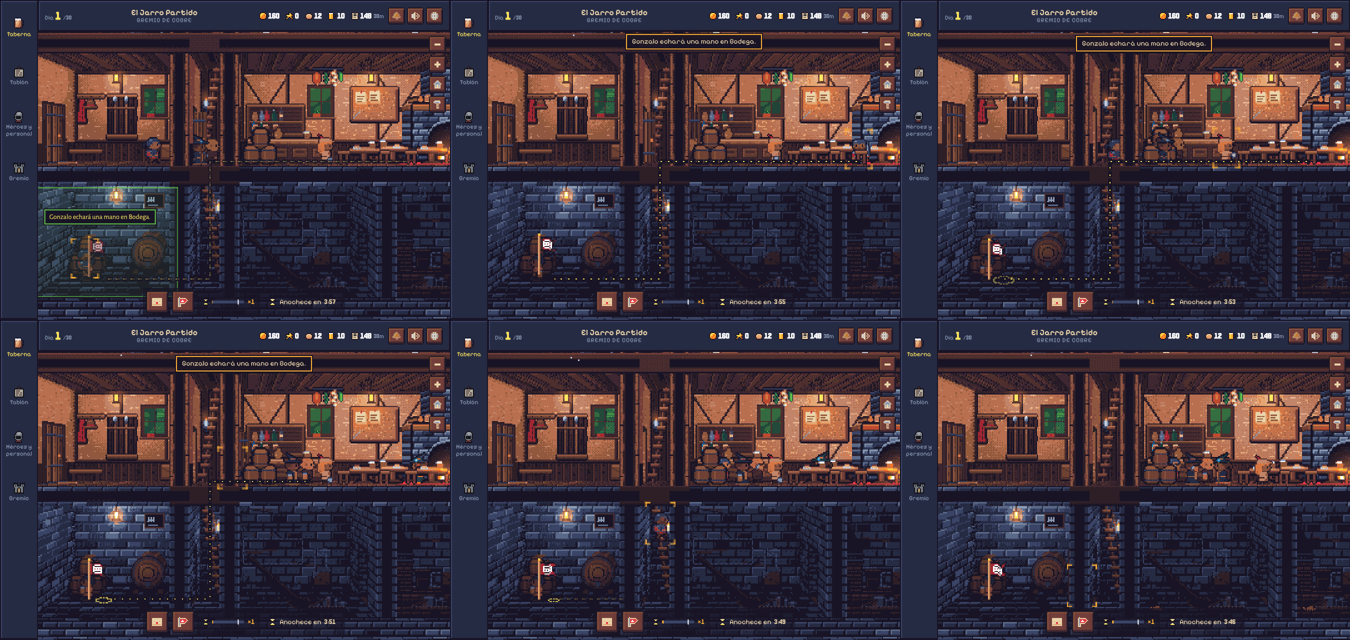
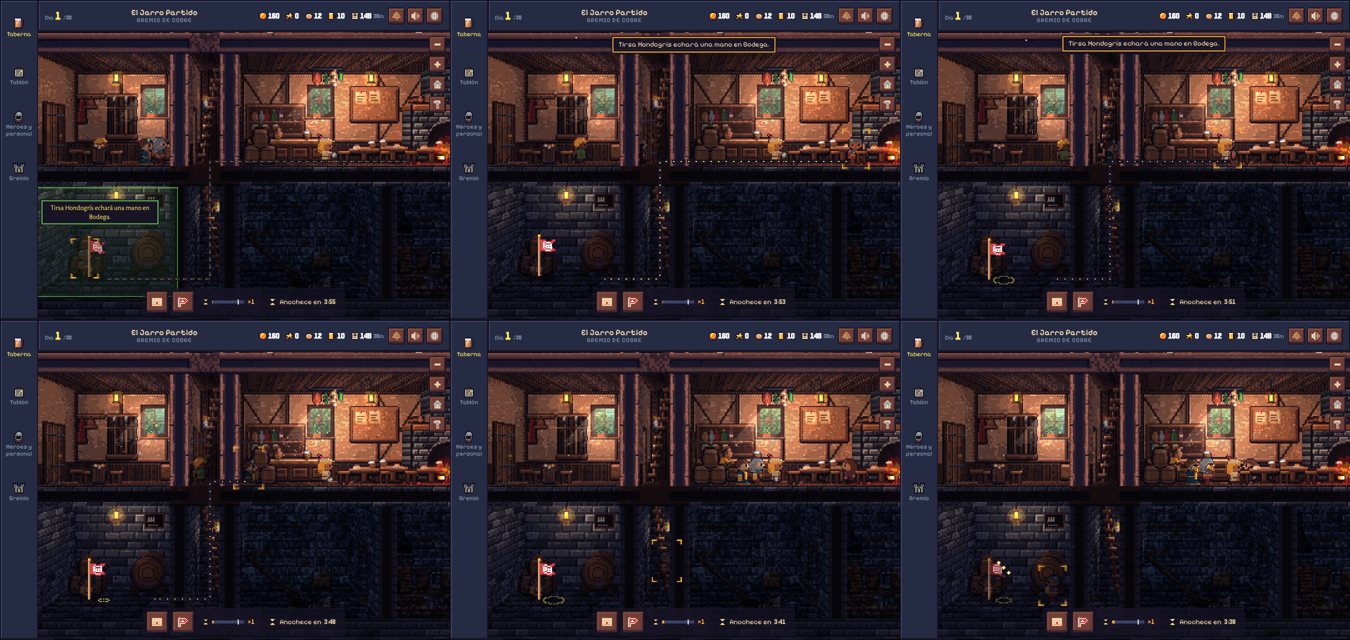
El camino al banderín sale del héroe (lo que le queda por andar) y tocar el banderín lo vuelve a enseñar
Claude-Session: https://claude.ai/code/session_011Wau2CXHz7Y1As4puBkNta

diff --git a/src/world/rooms/RoomScene.ts b/src/world/rooms/RoomScene.ts
@@ -67,7 +67,7 @@ import { BLIND, CANDLE, takeWallActs, type ActId, type PoiKind, type Round } fro
 import { FLIGHT_Z, flightArt, goesRight } from './stairs';
 import { dress } from './salas/tintes';
 import { Crowd, WALK_Z, type Hit, type Poi, type Talk } from './crowd';
-import { drawGoal, goalIcon, type GoalIcon } from './goalMark';
+import { drawGoal, goalBox, goalIcon, type GoalIcon } from './goalMark';
 import { clothOf } from '../../art/heroes/hero';
 import { LAWN_D, tuftAllowed, yardBushes, yardTrees } from './patio';
 import { bushCnc, oakCnc, pineCnc } from './arboles';
@@ -637,7 +637,7 @@ export class RoomScene {
    * Los caminos de quien se acaba de mandar a un sitio: de donde estaba hasta el banderín, por
    * puertas y escaleras; se borran solos en unos segundos (ver `trails`).
    */
-  private paths: { pts: Place[]; t0: number }[] = [];
+  private paths: { id: string; t0: number }[] = [];
   /** Modo obras: la sala elegida, que se puede coger para moverla, y la que se lleva con el dedo. */
   private grabbable: string | null = null;
   private roomDrag: { id: string; x: number; y: number; moved: boolean; rect: Rect } | null = null;
@@ -4812,7 +4812,10 @@ export class RoomScene {
     const live = this.liveRaid;
     if (live) {
       const id = this.heroAt(cssX, cssY);
-      if (!id) return;
+      if (!id) {
+        this.tapGoal(cssX, cssY);
+        return;
+      }
       if (isBandit(id)) live.aim(id);
       else if (live.tap(id)) this.cb.onSound?.('click', 0.8);
       return;
@@ -4823,6 +4826,8 @@ export class RoomScene {
       this.cb.onHero?.(who, { x: cssX, y: cssY, wx: p?.x ?? w.x, wy: p?.y ?? w.y });
       return;
     }
+    // Un banderín: su camino otra vez (antes que la sala que hay detrás).
+    if (this.tapGoal(cssX, cssY)) return;
     const pet = this.petAt(cssX, cssY);
     if (pet) {
       this.pat(pet);
@@ -4898,8 +4903,7 @@ export class RoomScene {
           // A plantar cara: el banderín con la espada y el camino por el que va corriendo.
           const wx = this.camera.toWorld(d.x, d.y).x;
           const x = Math.max(r.rect.x + 12, Math.min(r.rect.x + r.rect.w - 12, wx));
-          const way = d.from ? this.wayTo(d.from, { x, floor: r.room.floor }) : null;
-          if (way) this.paths.push({ pts: way, t0: this.t });
+          this.showPath(d.id);
           this.goals.set(d.id, {
             room: r.room.id,
             x,
@@ -4917,8 +4921,7 @@ export class RoomScene {
       const w = this.camera.toWorld(d.x, d.y);
       const x = Math.max(r.rect.x + 12, Math.min(r.rect.x + r.rect.w - 12, w.x));
       this.crowd.drop(d.id, { x, floor: r.room.floor });
-      const way = d.from ? this.wayTo(d.from, { x, floor: r.room.floor }) : null;
-      if (way) this.paths.push({ pts: way, t0: this.t });
+      this.showPath(d.id);
       this.goals.set(d.id, {
         room: r.room.id,
         x,
@@ -5160,7 +5163,11 @@ export class RoomScene {
             key,
             pts: d.from ? this.wayTo(d.from, { x: gx, floor: r.room.floor }) : null,
           };
-        if (d.trail.pts) this.trace(d.trail.pts, 0.5, 0);
+        if (d.trail.pts)
+          this.trace(
+            d.trail.pts.map((q) => ({ x: q.x, y: floorY(q.floor) })),
+            0.5,
+          );
         this.goalAt(d.id, gx, r.room.floor, this.goalIconFor(d.id, r.room), 0, 0.55, true);
       }
     }
@@ -5175,31 +5182,58 @@ export class RoomScene {
     return way ? [{ x: from.x, floor: from.floor }, ...way] : null;
   }
 
+  /** Enseña unos segundos el camino de alguien que va a su banderín (o lo vuelve a empezar). */
+  private showPath(id: string): void {
+    this.paths = this.paths.filter((p) => p.id !== id);
+    this.paths.push({ id, t0: this.t });
+  }
+
+  /** El banderín (de quién) que hay bajo un punto de la pantalla, si hay. */
+  private goalHit(cssX: number, cssY: number): string | null {
+    const { camera } = this;
+    const v: View = { px: camera.px, py: camera.py, vw: camera.vw, vh: camera.vh };
+    const x = cssX / camera.zoom;
+    const y = cssY / camera.zoom;
+    for (const [id, g] of this.goals) {
+      if (g.out !== undefined) continue;
+      const p = project(v, g.x, floorY(g.floor), WALK_Z);
+      const b = goalBox(p.x, p.y);
+      if (x >= b.x && x < b.x + b.w && y >= b.y && y < b.y + b.h) return id;
+    }
+    return null;
+  }
+
+  /** Tocar un banderín: vuelve a enseñar el camino de quien va hacia él. */
+  private tapGoal(cssX: number, cssY: number): boolean {
+    const id = this.goalHit(cssX, cssY);
+    if (!id) return false;
+    this.showPath(id);
+    this.cb.onSound?.('click', 0.5);
+    return true;
+  }
+
   /**
-   * Los caminos de quien se ha mandado a un sitio: un rato enteros y luego se van borrando desde
-   * donde salió hacia el banderín (como si se lo comiera quien va andando) y apagando.
+   * Los caminos de quien va a su banderín: lo que le queda por andar, desde sus pies (se acorta
+   * según avanza), un rato y luego se apaga. Si ha llegado o ya no va, se quita.
    */
   private trails(): void {
-    this.paths = this.paths.filter((p) => this.t - p.t0 < TRAIL_LIFE);
+    this.paths = this.paths.filter((p) => this.t - p.t0 < TRAIL_LIFE && this.goals.has(p.id));
     for (const p of this.paths) {
+      const pts = this.crowd.pathOf(p.id);
+      if (!pts) continue;
       const k = (this.t - p.t0) / TRAIL_LIFE;
-      const cut = k < 0.45 ? 0 : (k - 0.45) / 0.55;
-      this.trace(p.pts, k < 0.75 ? 1 : 1 - (k - 0.75) / 0.25, cut);
+      this.trace(pts, k < 0.7 ? 1 : 1 - (k - 0.7) / 0.3);
     }
   }
 
   /**
-   * Un camino punteado por el suelo (al paso de la gente), con los puntos que avanzan hacia el
-   * final; `cut` (0–1): lo que ya se ha borrado desde el principio.
+   * Un camino punteado por el suelo (al paso de la gente; pies: x e y en el plano de corte), con
+   * los puntos que avanzan hacia el final.
    */
-  private trace(pts: Place[], alpha: number, cut: number): void {
+  private trace(pts: { x: number; y: number }[], alpha: number): void {
     const { topCtx: ctx, camera } = this;
     const v: View = { px: camera.px, py: camera.py, vw: camera.vw, vh: camera.vh };
-    const sp = pts.map((q) => project(v, q.x, floorY(q.floor), WALK_Z));
-    let total = 0;
-    for (let k = 1; k < sp.length; k++)
-      total += Math.hypot(sp[k]!.x - sp[k - 1]!.x, sp[k]!.y - sp[k - 1]!.y);
-    const from = total * cut;
+    const sp = pts.map((q) => project(v, q.x, q.y, WALK_Z));
     const shift = Math.floor(this.t * 14) % 6;
     ctx.save();
     ctx.globalAlpha = Math.max(0, alpha);
@@ -5210,7 +5244,7 @@ export class RoomScene {
       const len = Math.hypot(b.x - a.x, b.y - a.y);
       for (let d = 0; d < len; d++) {
         const at = walked + d;
-        if (at < from || (at - shift + 6) % 6 >= 3) continue;
+        if ((at - shift + 6) % 6 >= 3) continue;
         const x = Math.round(a.x + ((b.x - a.x) * d) / len);
         const y = Math.round(a.y + ((b.y - a.y) * d) / len) - 1;
         ctx.fillStyle = P.black;

diff --git a/src/world/rooms/crowd.ts b/src/world/rooms/crowd.ts
@@ -1802,6 +1802,16 @@ export class Crowd {
     return { x: a.x, floor: a.floor, y: a.y, moving: a.path.length > 0, down: a.pose === 'down' };
   }
 
+  /**
+   * Lo que le queda por andar a alguien: desde sus pies (donde está ahora, también a media
+   * escalera) por cada punto de su camino. Null si no se le ve o ya no va a ningún sitio.
+   */
+  pathOf(id: string): { x: number; y: number }[] | null {
+    const a = this.actors.get(id);
+    if (!a || a.gone || a.held || !a.path.length) return null;
+    return [{ x: a.x, y: a.y }, ...a.path.map((q) => ({ x: q.x, y: floorY(q.floor) }))];
+  }
+
   /** Tendido en el suelo: hacia qué lado tiene la cabeza (y si ya ha acabado de caer). */
   lying(id: string): { head: 1 | -1; landed: boolean } | null {
     const a = this.actors.get(id);

diff --git a/src/world/rooms/goalMark.ts b/src/world/rooms/goalMark.ts
@@ -96,6 +96,20 @@ const SIDE = -12;
 const CLOTH_W = 13;
 const CLOTH_H = 11;
 
+/**
+ * Lo que ocupa el banderín clavado con los pies en (x, y), en píxeles de la vista, con algo de
+ * margen para el dedo: del palo a la punta de la tela y del remate al suelo.
+ */
+export function goalBox(x: number, y: number): { x: number; y: number; w: number; h: number } {
+  const pad = 3;
+  return {
+    x: Math.round(x) + SIDE - pad,
+    y: Math.round(y) - POLE - 2 - pad,
+    w: CLOTH_W + 4 + pad * 2,
+    h: POLE + 4 + pad * 2,
+  };
+}
+
 export interface GoalDraw {
   /** Los pies del banderín, en píxeles de la vista. */
   x: number;

diff --git a/docs/plan-arte.md b/docs/plan-arte.md
@@ -223,6 +223,10 @@ npm run build`.
         destellos. Ya va corriendo (lo del principal en `crowd.drop`), así que dura todo el
         camino. Sustituye a las cuatro esquinas provisionales (`headingMarks`, quitado); en el
         asalto en directo, el mismo banderín con la espada.
+  - [x] 6d. El camino, desde el héroe (el usuario): lo que le queda por andar (`Crowd.pathOf`,
+        desde sus pies, también a media escalera), así que arranca donde está y se acorta según
+        avanza. Tocar el banderín (`goalHit`, `goalBox`) lo vuelve a enseñar unos segundos
+        (también en el asalto en directo). Capturas: `camino-corriendo.png`, `camino-toque.png`.
   - [x] 6c. El color del banderín (el usuario): el de la ropa de quien va (`clothOf` en
         `art/heroes/hero.ts`): el de su clase u oficio (guerrero rojo, pícaro morado, mago azul,
         clérigo blanco, explorador verde…) o el de su tinte de la sastrería. Sobre tela clara, el
